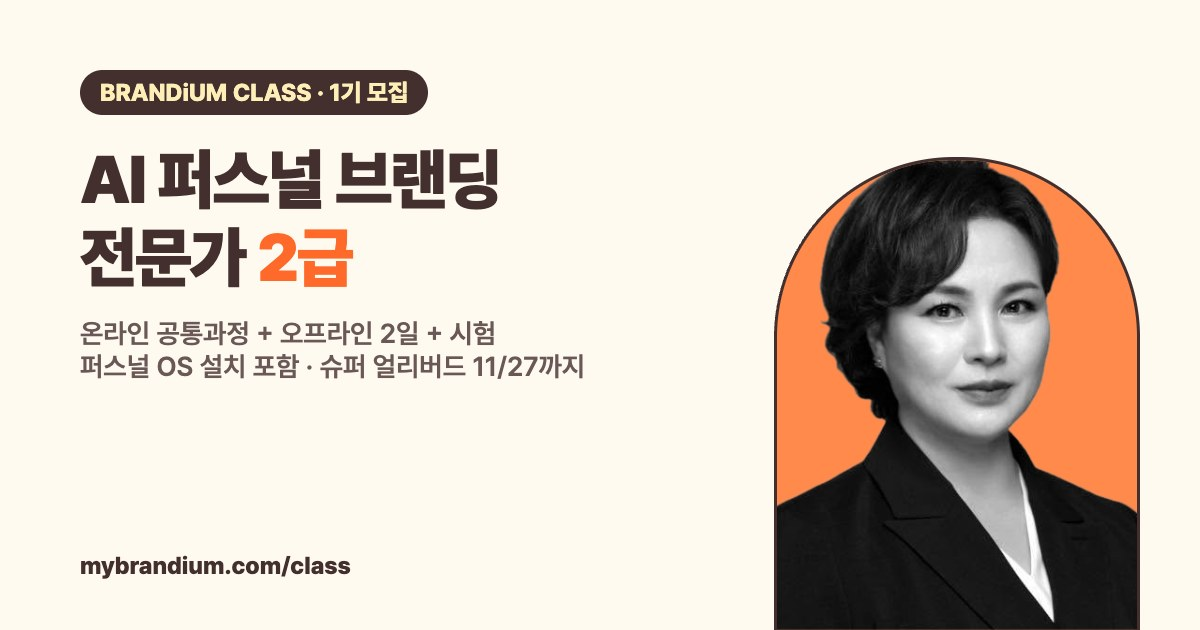
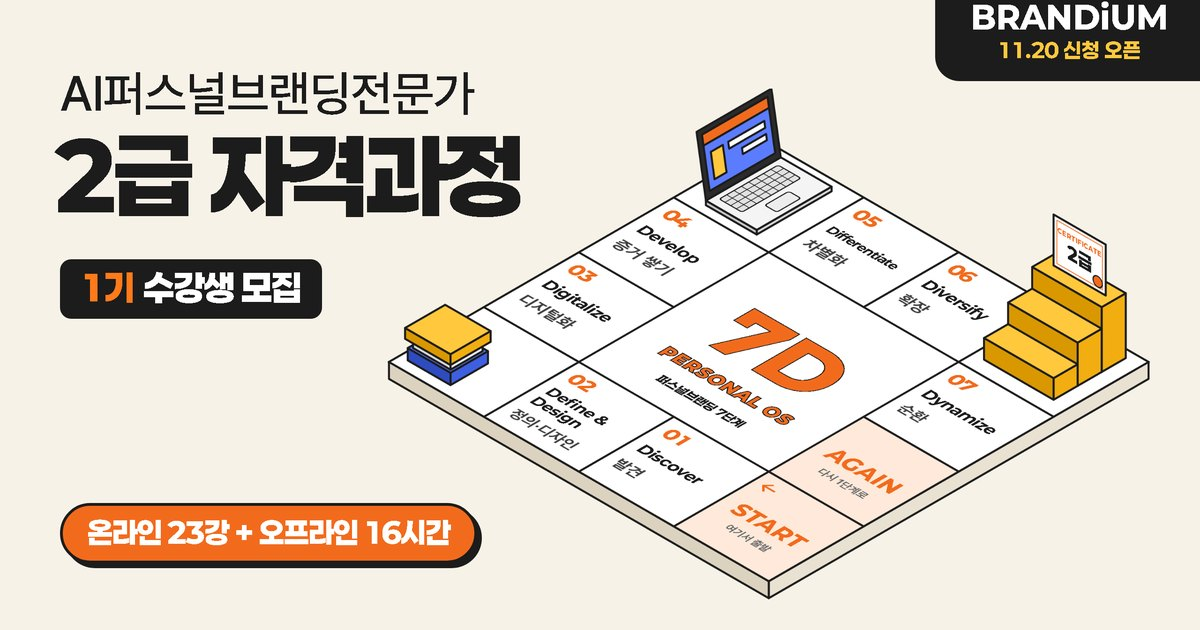
CLASS 상세: 메인 비주얼·얼리버드 남은 시간·혜택(포스터 기준), OS 설치자 혜택은 별도 문의

diff --git a/class/index.html b/class/index.html
@@ -1,9 +1,9 @@
 <!doctype html><html lang="ko"><head><meta charset="utf-8">
 <meta name="viewport" content="width=device-width,initial-scale=1">
-<title>AI 퍼스널 브랜딩 전문가 자격과정 2급 · 1기 모집 — 브랜디움 CLASS</title>
-<meta name="description" content="내 퍼스널 OS로 내 브랜드를 스스로 운영하는 사람. 온라인 공통과정 + 오프라인 2일(12/11~12) + 시험. 슈퍼 얼리버드 11/27까지 20%.">
-<meta property="og:title" content="AI 퍼스널 브랜딩 전문가 자격과정 2급 · 1기 모집">
-<meta property="og:description" content="온라인 공통과정 + 오프라인 2일(12/11~12) + 시험 · 퍼스널 OS 설치 포함 · 슈퍼 얼리버드 11/27까지">
+<title>AI퍼스널브랜딩전문가 2급 자격과정 · 1기 수강생 모집 — 브랜디움 CLASS</title>
+<meta name="description" content="내 퍼스널 OS로 내 브랜드를 스스로 운영하는 사람. 온라인 23강 + 오프라인 16시간(12/11~12), 7D를 퍼스널 OS로 직접 해 보는 과정. 슈퍼 얼리버드 11/27까지 20% 176만 원.">
+<meta property="og:title" content="AI퍼스널브랜딩전문가 2급 자격과정 · 1기 수강생 모집">
+<meta property="og:description" content="온라인 23강 + 오프라인 16시간 · 퍼스널 OS 설치 포함 · 슈퍼 얼리버드 11/27까지 176만 원">
 <meta property="og:image" content="https://mybrandium.com/class/img/og.jpg"><meta property="og:type" content="website"><meta property="og:site_name" content="브랜디움 BRAND!UM">
 <link rel="icon" href="../favicon.png">
 <link rel="stylesheet" href="https://cdn.jsdelivr.net/gh/orioncactus/pretendard@v1.3.9/dist/web/static/pretendard.min.css">
@@ -79,52 +79,68 @@ footer{background:var(--ink);color:#bbb;font-size:12px;line-height:1.8;padding:2
 .who div{background:var(--cream);border-radius:16px;padding:16px 18px;font-weight:700}
 .ladder{display:flex;gap:10px;align-items:stretch;flex-wrap:wrap}.ladder div{flex:1;min-width:180px;background:#fff;border:2px solid var(--ink);border-radius:16px;padding:16px}.ladder div.on{background:var(--ink);color:#fffaf0}
 .ladder small{opacity:.7}
+.kv{margin:22px 0 0;border:2px solid var(--ink);border-radius:22px;overflow:hidden;background:#f7f2e8}.kv img{width:100%;display:block}
+.hero{padding-top:26px}
+.side{display:flex;flex-direction:column;gap:12px}
+.perk{background:#fff;border:2px solid var(--ink);border-radius:18px;padding:16px 18px;box-shadow:4px 4px 0 var(--ink)}.perk em{font-style:normal;color:#f06a1e;font-weight:900;font-size:13px}.perk b{display:block;font-size:17px;margin-top:4px;line-height:1.4}
+.eb{background:#1d1d1d;color:#fff;border-radius:18px;padding:18px 20px;margin:16px 0 14px}
+.eb .t{font-size:13px;font-weight:800;color:#ffb347}.eb .p{display:flex;align-items:baseline;gap:10px;flex-wrap:wrap;margin:4px 0}
+.eb .p s{opacity:.5;font-size:15px}.eb .p .off{background:#f06a1e;color:#fff;font-weight:900;border-radius:8px;padding:1px 8px;font-size:16px}.eb .p b{font-size:34px;font-family:'Josefin Sans',Pretendard;letter-spacing:-.01em}
+.eb .cd{font-size:14.5px;font-weight:700}.eb .cd i{font-style:normal;color:#ffb347;font-variant-numeric:tabular-nums}
+.eb .nx{font-size:13.5px;opacity:.85;margin-top:6px;border-top:1px dashed rgba(255,255,255,.3);padding-top:8px}
+.steps3{display:grid;grid-template-columns:repeat(3,1fr);gap:12px}@media(max-width:760px){.steps3{grid-template-columns:1fr}}
+.steps3 div{background:#fff;border:2px solid var(--ink);border-radius:18px;padding:18px;position:relative}
+.steps3 small{opacity:.6;font-weight:700}.steps3 b{display:block;font-size:17px;margin-top:4px}.steps3 strong{display:block;font-size:26px;font-family:'Josefin Sans',Pretendard;margin:6px 0 2px}.steps3 span{font-size:13px;font-weight:800;color:#f06a1e}
+.steps3 div.now{background:#f06a1e;color:#fff;box-shadow:5px 5px 0 var(--ink)}.steps3 div.now span{color:#fff}.steps3 div.now:before{content:"지금 이 가격";position:absolute;top:-13px;right:14px;background:var(--ink);color:#fff;font-size:12px;font-weight:900;padding:3px 10px;border-radius:99px}
+.steps3 div.past{opacity:.35}.steps3 div.past strong{text-decoration:line-through}
+
 </style></head><body>
 <nav><a href="../"><img src="../logo_butter.png" alt="BRANDiUM"></a><div class="r"><a href="room/">내 강의실</a><a href="../shop/">스토어</a><a href="../account/">마이페이지</a></div></nav>
 <main class="w">
+<section class="kv"><img src="img/main.jpg" alt="AI퍼스널브랜딩전문가 2급 자격과정 1기 수강생 모집 — 온라인 23강 + 오프라인 16시간, 7D 퍼스널 OS"></section>
 <section class="hero">
  <div class="info">
-  <span class="bdg">CLASS · 1기 모집</span>
-  <h1>AI 퍼스널 브랜딩 전문가<br>자격과정 2급</h1>
-  <p class="one">내 퍼스널 OS로, 내 브랜드를 스스로 운영하는 사람.<br>온라인 공통과정 → 오프라인 2일 실습 → 시험까지, 조연심 대표와 함께합니다.</p>
-  <div class="price" id="pr"></div>
+  <span class="bdg">CLASS · 1기 수강생 모집</span>
+  <h1>AI퍼스널브랜딩전문가<br>2급 자격과정</h1>
+  <p class="one"><b>7계단으로, 이름값을 자격으로.</b><br>온라인 23강 + 오프라인 16시간 — 7D를 퍼스널 OS로 직접 해 보는 과정입니다.</p>
+  <div class="eb" id="eb"></div>
   <dl class="facts">
-   <dt>온라인</dt><dd>공통과정 · 브랜디움 강의실 · 11/20(금) 1차 공개 후 순차 공개</dd>
-   <dt>오프라인</dt><dd>12/11(금) ~ 12/12(토) · 09:00~18:00 · 2일</dd>
-   <dt>시험</dt><dd>12/12(토) 오프라인 둘째 날</dd>
-   <dt>사후</dt><dd>과정 1달쯤 뒤 줌 보습 과정(활용 점검·피드백)</dd>
-   <dt>포함</dt><dd>나의 퍼스널 OS 설치</dd>
+   <dt>과정</dt><dd>온라인 공통과정 23강 · 오프라인 실습 16시간</dd>
+   <dt>온라인</dt><dd>11/20(금)부터 순차 공개 · 브랜디움 강의실</dd>
+   <dt>오프라인</dt><dd>12/11(금) ~ 12/12(토) · 09:00~18:00 · 장소 추후 안내</dd>
+   <dt>모집</dt><dd>10~12명 소수 정예</dd>
+   <dt>포함</dt><dd>퍼스널 OS(99만 원) 설치</dd>
   </dl>
-  <a class="cta" href="order/">수강 신청하고 결제하기</a>
+  <a class="cta" href="order/">지금 할인가로 신청하기</a>
   <a class="cta ghost" href="room/">이미 신청하셨나요? 내 강의실 들어가기</a>
  </div>
- <div><div class="ph"><img src="img/jys.png" alt="조연심 대표"></div><p class="cap2">강사 · 조연심 (에이아이(AI)퍼스널브랜딩연구소 대표 · 『이름값 경제학』 저자)</p></div>
+ <div class="side">
+  <div class="perk"><em>혜택 1</em><b>시험 합격 시 자격증 현장 발급</b></div>
+  <div class="perk"><em>혜택 2</em><b>수료생 인터뷰 기사를 한국퍼스널브랜딩신문(KPBN)에 게재</b></div>
+  <div class="perk"><em>포함</em><b>나의 퍼스널 OS 설치 (99만 원 상당)</b></div>
+  <p class="cap2">에이아이(AI)퍼스널브랜딩연구소 · 등록민간자격 제2026-006001호</p>
+ </div>
 </section>
-
 <section class="sec"><p class="en">FOR WHOM</p><h2>이런 분께 맞아요</h2>
  <div class="who"><div>🧭 내 브랜드를 남에게 맡기지 않고 스스로 관리하고 싶은 분</div><div>🤖 퍼스널 OS를 설치해서, 제대로 잘 쓰고 싶은 분</div></div>
 </section>
 
 <section class="sec"><p class="en">CURRICULUM</p><h2>3단계로 진행돼요</h2>
  <div class="step">
-  <div><em>STEP 1 · 온라인</em><b>공통과정</b><ul><li>브랜디움 강의실에서 수강 — 어디까지 들었는지 자동 기록</li><li>11/20(금) 1차 공개, 이후 순차 공개</li><li>강의마다 교안 PDF 제공</li></ul></div>
-  <div><em>STEP 2 · 오프라인 2일</em><b>2급 실습 과정</b><ul><li>오리엔테이션 — 개발 취지와 과정 소개</li><li><b>7D 프로세스</b>를 단계별 수업으로 — 교시마다 퍼스널 OS 활용법과 프롬프트를 직접 써 보는 실습</li><li><b>4D 프로젝트</b>를 현장에서 시작 — 정량(내 분야 콘텐츠를 내 채널에 정기 발행 시작) · 정성(기획 → 런칭 예고 포스터 → 실제 채널 발행)</li><li>둘째 날 시험</li></ul></div>
+  <div><em>STEP 1 · 온라인</em><b>공통과정</b><ul><li>온라인 23강 — 브랜디움 강의실에서 수강, 어디까지 들었는지 자동 기록</li><li>11/20(금) 1차 공개, 이후 순차 공개</li><li>강의마다 교안 PDF 제공</li></ul></div>
+  <div><em>STEP 2 · 오프라인 16시간</em><b>2급 실습 과정 (2일)</b><ul><li>오리엔테이션 — 개발 취지와 과정 소개</li><li><b>7D 프로세스</b>를 단계별 수업으로 — 교시마다 퍼스널 OS 활용법과 프롬프트를 직접 써 보는 실습</li><li><b>4D 프로젝트</b>를 현장에서 시작 — 정량(내 분야 콘텐츠를 내 채널에 정기 발행 시작) · 정성(기획 → 런칭 예고 포스터 → 실제 채널 발행)</li><li>둘째 날 시험 — 합격하면 자격증 현장 발급</li></ul></div>
   <div><em>STEP 3 · 사후</em><b>1달 뒤 줌 보습</b><ul><li>배운 대로 잘 쓰고 있는지 함께 점검</li><li>막힌 곳 피드백</li></ul></div>
  </div>
- <p class="note">오프라인 장소는 확정되는 대로 수강생께 따로 안내드립니다. 소수 정원으로 진행합니다.</p>
+ <p class="note">오프라인 장소는 확정되는 대로 수강생께 따로 안내드립니다. 10~12명 소수 정예로 진행합니다.</p>
 </section>
 
-<section class="sec"><p class="en">PRICE</p><h2>1기 수강료</h2>
- <table class="ptab"><tr><th>구분</th><th>기간</th><th style="text-align:right">수강료 (VAT 포함)</th></tr>
-  <tr data-to="2026-11-27"><td>슈퍼 얼리버드 <small>(20%)</small></td><td>~ 11/27(금)</td><td class="r">1,760,000원</td></tr>
-  <tr data-from="2026-11-28" data-to="2026-12-06"><td>얼리버드 <small>(10%)</small></td><td>11/28(토) ~ 12/6(일)</td><td class="r">1,980,000원</td></tr>
-  <tr data-from="2026-12-07"><td>정상가</td><td>12/7(월) ~</td><td class="r">2,200,000원</td></tr>
- </table>
- <div class="two" style="margin-top:14px">
-  <div class="box"><h3>🎓 퍼스널대학 졸업생 · 명지대 교육대학원생</h3><ul><li>기간과 상관없이 <b>20% 할인 (1,760,000원)</b></li><li>얼리버드 할인과 겹치지 않고, 더 낮은 금액 하나가 적용돼요</li></ul></div>
-  <div class="box"><h3>🖥 퍼스널 OS를 이미 설치하신 분</h3><ul><li>과정에 들어 있는 퍼스널 OS 설치를 빼고 <b>550,000원 할인</b></li><li>예) 슈퍼 얼리버드 1,760,000원 → <b>1,210,000원</b></li></ul></div>
+<section class="sec" id="price"><p class="en">PRICE</p><h2>빨리 신청할수록 더 싸요</h2>
+ <div class="steps3" id="st3">
+  <div data-to="2026-11-27"><small>~ 11/27(금)</small><b>슈퍼 얼리버드 20%</b><strong>1,760,000원</strong><span>44만 원 할인</span></div>
+  <div data-from="2026-11-28" data-to="2026-12-06"><small>11/28(토) ~ 12/6(일)</small><b>얼리버드 10%</b><strong>1,980,000원</strong><span>22만 원 할인</span></div>
+  <div data-from="2026-12-07"><small>12/7(월) ~</small><b>정가</b><strong>2,200,000원</strong><span>할인 없음</span></div>
  </div>
- <p class="note">· 할인 대상은 신청서에 체크해 주시면 담당자가 확인합니다. 대상이 아닌 것으로 확인되면 차액을 안내드려요.<br>· 퍼스널 OS를 쓰려면 Claude 구독(Max, 월 $100~)이 필요합니다. 구독료는 수강생 본인 명의로 Claude에 직접 결제합니다.<br>· 1회 결제 · 카드·간편결제 또는 계좌입금</p>
+ <p class="note">· 모든 금액 부가세 포함 · 1회 결제(카드·간편결제 또는 계좌입금)<br>· 20%·10% 할인은 중복되지 않습니다. 퍼스널대학 졸업생·명지대 교육대학원생은 기간과 상관없이 20%(1,760,000원).<br>· 퍼스널 OS를 이미 설치하신 분의 추가 혜택은 <a href="https://pf.kakao.com/_gMxogd/chat" target="_blank" rel="noopener">카카오톡 채널</a>로 따로 문의해 주세요.<br>· 퍼스널 OS를 쓰려면 Claude 구독(Max, 월 $100~)이 필요합니다. 구독료는 수강생 본인 명의로 Claude에 직접 결제합니다.</p>
 </section>
 
 <section class="sec"><p class="en">NEXT</p><h2>2급 다음은 1급</h2>
@@ -144,20 +160,24 @@ footer{background:var(--ink);color:#bbb;font-size:12px;line-height:1.8;padding:2
 이 자격은 국가가 공인한 자격이 아닌 <b>등록민간자격</b>입니다. 자격 정보는 민간자격정보서비스(pqi.or.kr)에서 확인할 수 있습니다.<br>
 수강 신청·결제 처리 주식회사 캐다(브랜디움)</div></section>
 </main>
-<div class="bar"><div class="p" id="barp"></div><a href="order/">수강 신청하기</a></div>
+<div class="bar"><div class="p" id="barp"></div><a href="order/">할인가로 신청하기</a></div>
 
 <footer>주식회사 캐다 · 대표 최유정 · 사업자등록번호 118-86-03525 · 통신판매업신고 제2026-인천부평-1769호<br>인천광역시 부평구 길주로647번길 20, 801호 에이35(삼산동, 삼성프라자) · 010-8225-6242 · kedakorea@gmail.com<br><a href="../terms/">이용약관</a> · <a href="../privacy/"><b>개인정보처리방침</b></a> · <a href="../refund/">환불 규정</a></footer>
 <script>
-// 2026-11-16 자격과정 2급 1기 판매 페이지 — 기간별 금액은 서버 규칙(cert2_price)과 같은 날짜로 표시
-const kst = new Date(Date.now() + 9 * 3600e3).toISOString().slice(0, 10);
-let cur = null;
-document.querySelectorAll(".ptab tr[data-to],.ptab tr[data-from]").forEach((tr) => {
-  const f = tr.dataset.from || "0000", t = tr.dataset.to || "9999";
-  if (kst >= f && kst <= t) { tr.classList.add("now"); cur = tr; } else if (kst > t) tr.classList.add("past");
-});
-const nm = cur.cells[0].childNodes[0].textContent.trim(), amt = cur.cells[2].textContent;
-const off = { "슈퍼 얼리버드": "20%", "얼리버드": "10%" }[nm];
-document.getElementById("pr").innerHTML = `${off ? `<s>2,200,000원</s><br><span class="off">${off}</span>` : ""}<b>${amt.replace("원", "")}</b><small>원 · VAT 포함</small><br><span style="font-size:13.5px;opacity:.7">${nm} · ${cur.cells[1].textContent}</span>`;
-document.getElementById("barp").innerHTML = `자격과정 2급 · ${nm}<b>${amt}</b>`;
+// 2026-11-16 자격과정 2급 1기 판매 페이지 — 기간별 금액은 서버 규칙(cert2_price)과 같은 날짜. 기간 안이면 할인가 + 남은 시간 + 다음 단계 금액 안내
+const T = [{ to: "2026-11-27", nm: "슈퍼 얼리버드", off: "20%", p: 1760000 }, { to: "2026-12-06", nm: "얼리버드", off: "10%", p: 1980000 }, { to: "9999-12-31", nm: "정가", off: "", p: 2200000 }];
+const won = (n) => n.toLocaleString("ko-KR") + "원", kst = () => new Date(Date.now() + 9 * 3600e3).toISOString().slice(0, 10);
+const md = (d) => `${+d.slice(5, 7)}/${+d.slice(8, 10)}`;
+function paint() {
+  const k = kst(), i = T.findIndex((t) => k <= t.to), c = T[i], n = T[i + 1];
+  document.querySelectorAll("#st3 > div").forEach((d, j) => { d.classList.toggle("now", j === i); d.classList.toggle("past", j < i); });
+  let cd = "";
+  if (n) { const end = new Date(c.to + "T23:59:59+09:00"), ms = end - Date.now(), dd = Math.floor(ms / 864e5), hh = Math.floor(ms % 864e5 / 36e5), mm = Math.floor(ms % 36e5 / 6e4), ss = Math.floor(ms % 6e4 / 1e3);
+    cd = `<div class="cd">⏰ ${md(c.to)} 23:59 마감 · 남은 시간 <i>${dd}일 ${String(hh).padStart(2, "0")}:${String(mm).padStart(2, "0")}:${String(ss).padStart(2, "0")}</i></div>
+     <div class="nx">기간이 지나면 할인 금액이 줄어들어요 → ${n.off ? n.nm + " " + n.off + " " : "정가 "}<b>${won(n.p)}</b>${n.off ? "" : " (할인 끝)"}</div>`; }
+  document.getElementById("eb").innerHTML = `<div class="t">${c.off ? `지금 신청하면 ${c.nm} 할인가` : "정가"}</div><div class="p">${c.off ? `<s>2,200,000원</s><span class="off">${c.off}</span>` : ""}<b>${won(c.p)}</b></div>${c.off ? `<div style="font-size:13.5px;opacity:.85">${won(2200000 - c.p)} 할인 · 부가세 포함</div>` : ""}${cd}`;
+  document.getElementById("barp").innerHTML = `${c.off ? c.nm + " " + c.off + " · ~" + md(c.to) : "자격과정 2급"}<b>${won(c.p)}</b>`;
+}
+paint(); setInterval(paint, 1000);
 </script>
 </body></html>

diff --git a/class/order/index.html b/class/order/index.html
@@ -100,13 +100,12 @@ function needLogin() {
 }
 function form(u, m) {
   M.innerHTML = `<p class="en">CLASS · ORDER</p><h1>자격과정 2급 · 1기<br>수강 신청</h1><p class="sub">결제가 확인되면 브랜디움 <b>내 강의실</b>이 바로 열립니다. <a href="../">과정 안내 다시 보기</a></p>
-  <div class="card"><div class="row"><span>과정</span><b>AI 퍼스널 브랜딩 전문가 2급 · 1기</b></div><div class="row"><span>온라인</span><span>공통과정 · 11/20(금)부터 순차 공개</span></div><div class="row"><span>오프라인</span><span>12/11(금)~12/12(토) 09:00~18:00</span></div><div class="row"><span>포함</span><span>퍼스널 OS 설치 · 시험</span></div></div>
+  <div class="card"><div class="row"><span>과정</span><b>AI 퍼스널 브랜딩 전문가 2급 · 1기</b></div><div class="row"><span>온라인</span><span>23강 · 11/20(금)부터 순차 공개</span></div><div class="row"><span>오프라인</span><span>16시간 · 12/11(금)~12(토) 09:00~18:00</span></div><div class="row"><span>포함</span><span>퍼스널 OS 설치 · 시험</span></div></div>
   <h3>할인 대상 (해당하는 분만)</h3>
   <label class="opt"><input type="checkbox" name="o" value="grad"><span><b>퍼스널대학 졸업생</b> — 20% (1,760,000원)</span></label>
   <label class="opt"><input type="checkbox" name="o" value="mju"><span><b>명지대 교육대학원생</b> — 20% (1,760,000원)</span></label>
-  <label class="opt"><input type="checkbox" name="o" value="os"><span><b>퍼스널 OS를 이미 설치했어요</b> — 550,000원 할인 (과정 속 설치를 뺌)</span></label>
-  <p class="small" style="margin-top:6px">얼리버드와 졸업생·대학원생 할인은 겹치지 않고 더 낮은 금액 하나만 적용돼요. 담당자가 대상 여부를 확인하고, 아니면 차액을 안내드립니다.</p>
-  <div id="ev" style="display:none"><label class="f">확인용 정보 (기수·학번 또는 설치한 때)</label><input type="text" id="evd" placeholder="예: 퍼스널대학 3기 / 명지대 교육대학원 2025 입학 / 10월 원격 설치"></div>
+  <p class="small" style="margin-top:6px">20%·10% 할인은 중복되지 않아요. 담당자가 대상 여부를 확인하고, 아니면 차액을 안내드립니다. 퍼스널 OS를 이미 설치하신 분의 추가 혜택은 <a href="https://pf.kakao.com/_gMxogd/chat" target="_blank" rel="noopener">카카오톡 채널</a>로 문의해 주세요.</p>
+  <div id="ev" style="display:none"><label class="f">확인용 정보 (기수·학번 등)</label><input type="text" id="evd" placeholder="예: 퍼스널대학 3기 / 명지대 교육대학원 2025 입학"></div>
   <h3>수강생</h3>
   <label class="f">이름</label><input type="text" id="nm" value="${osEsc(m.name || "")}">
   <label class="f">휴대폰</label><input type="tel" id="ph" value="${osEsc(m.phone || "")}">
